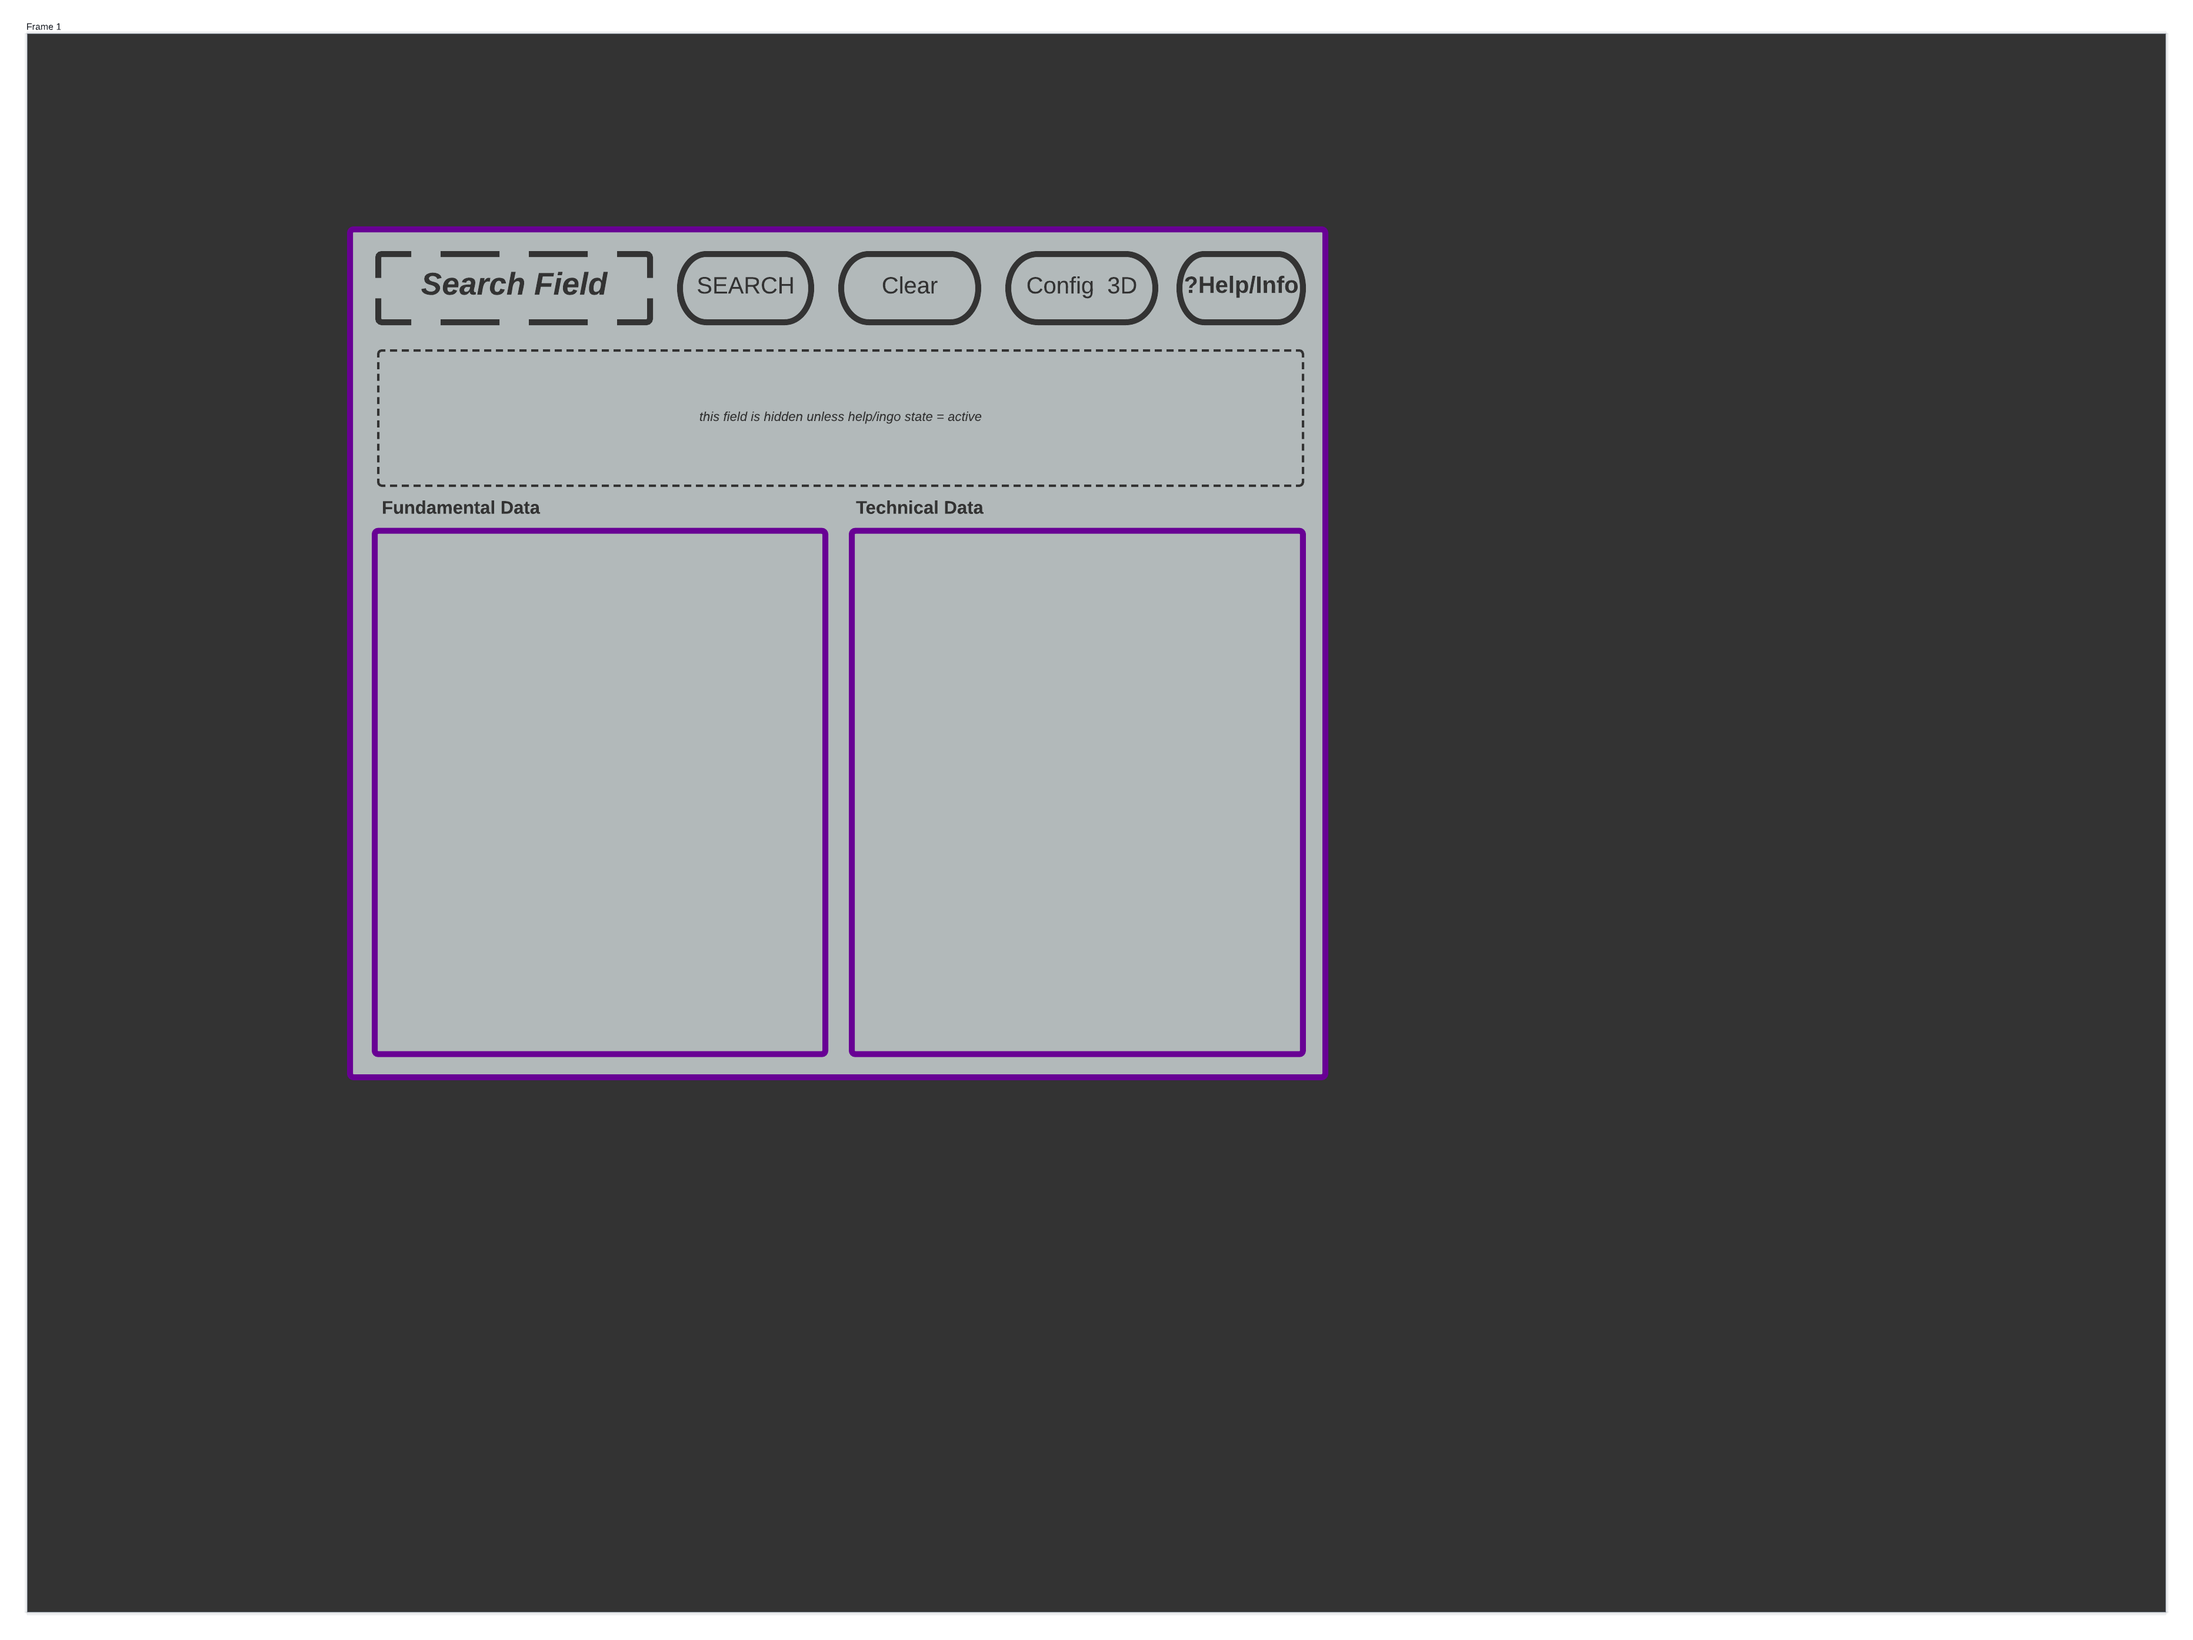
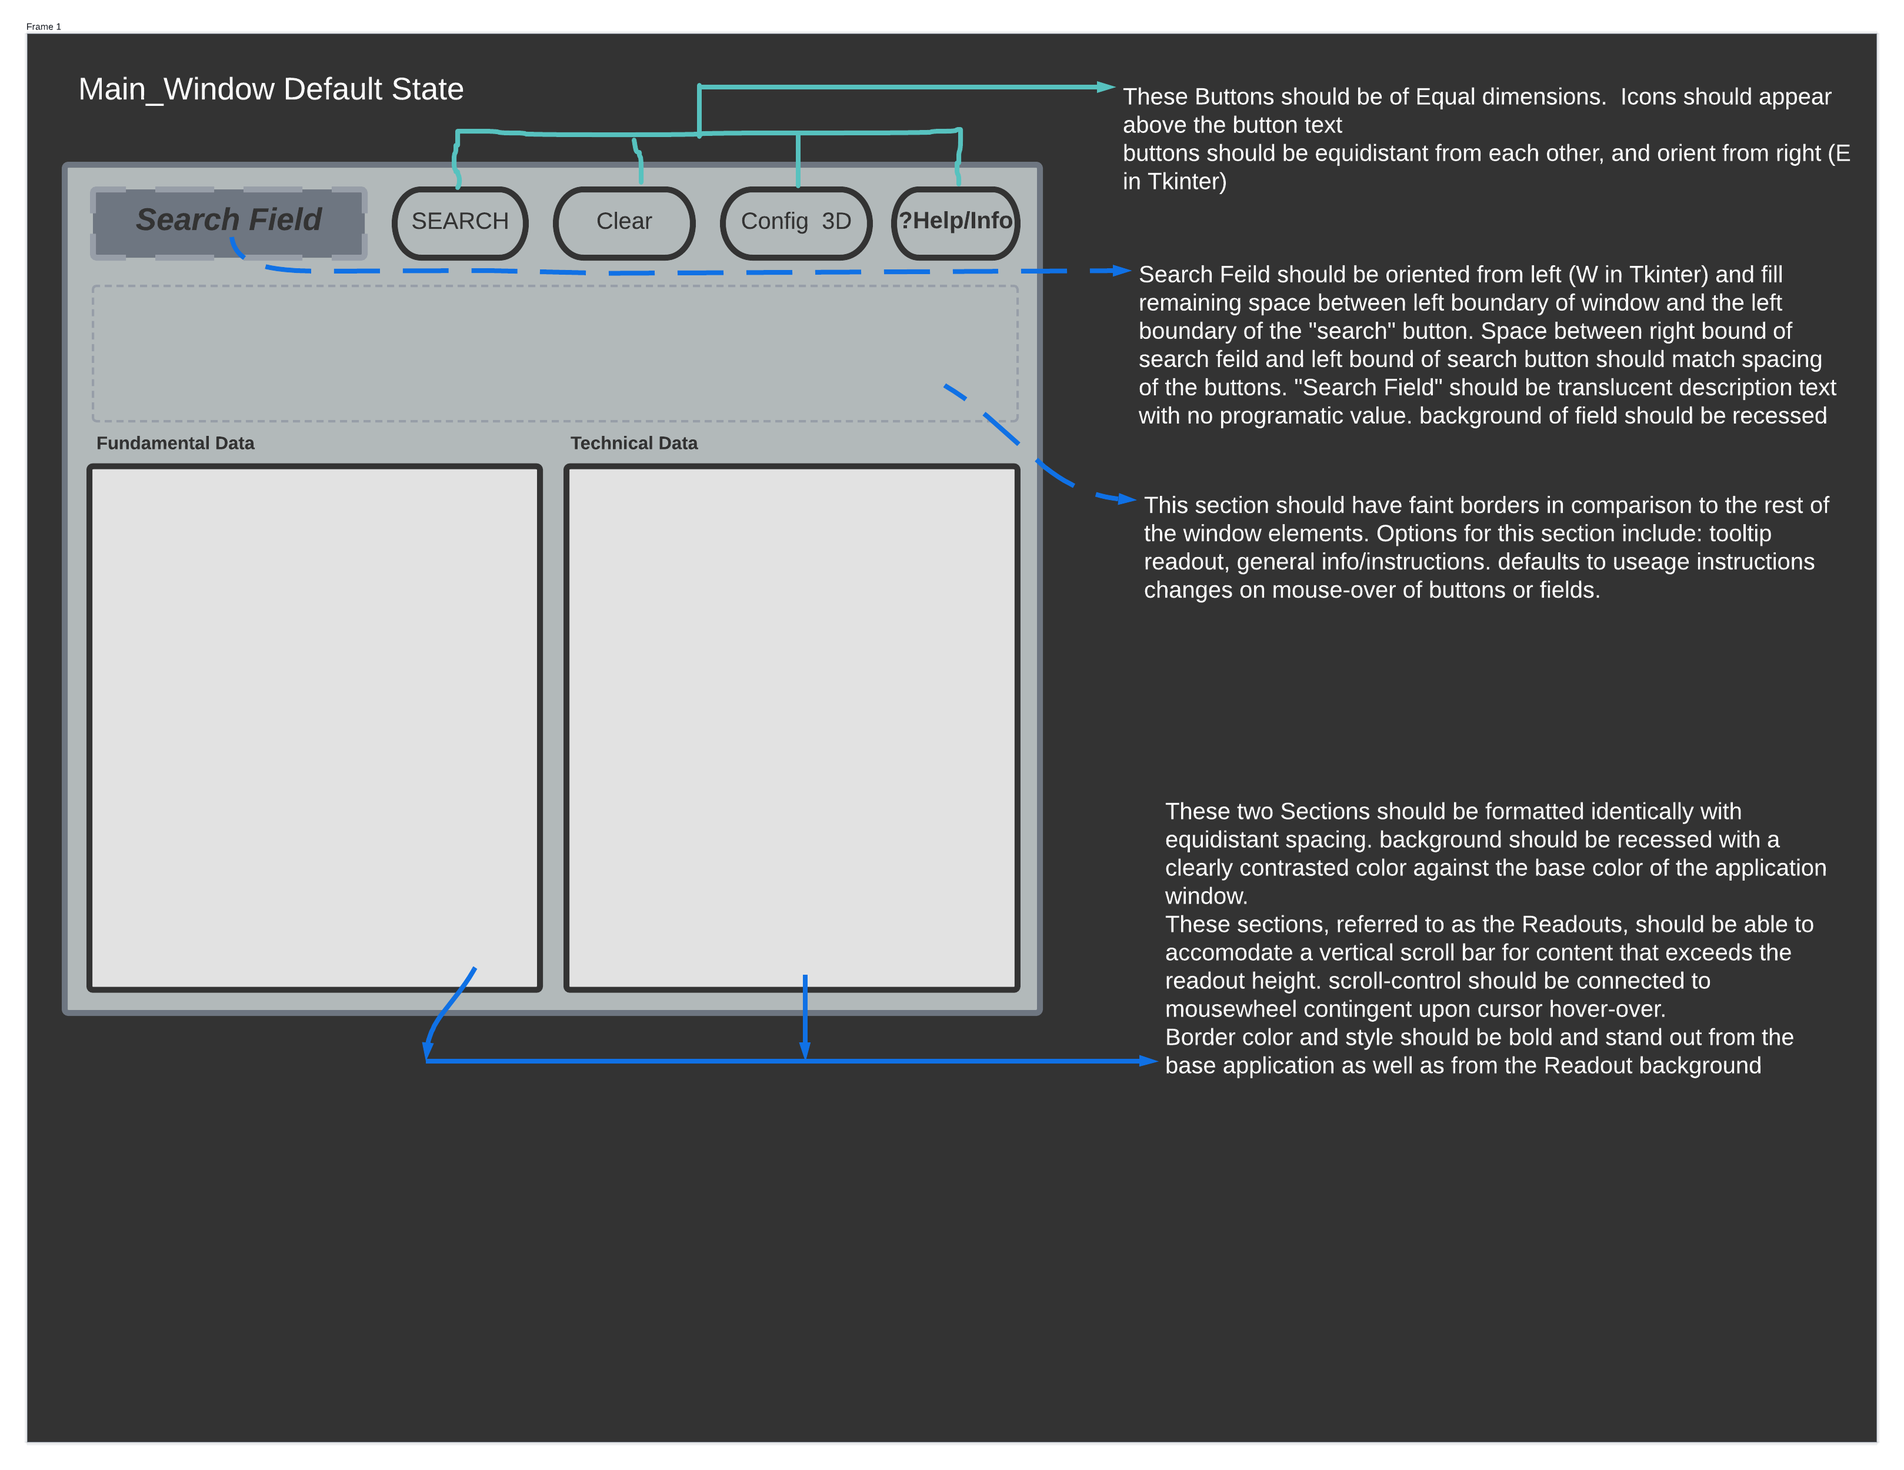
updated wireframe

diff --git a/design_docs/feature_docs/main_window/main_win.md b/design_docs/feature_docs/main_window/main_win.md
@@ -33,7 +33,7 @@ Main interface should be sized in such a way that "full-screen" is optional and 
 *Search-Bar and Search Button:*
 These two elements should be adjacent to each other on the interface window. The field should be clearly demarcated from the background of the window and centered. The field and the button should both be clearly and explicitly labeled, and the button should also make use of an explicit search Icon.
 
-The functionality of the search button and what can be searched for should be outlined and addressed as it's own design/feature document. See `search_info/search.md` for list of what data should be retrieved and where it should be displayed upon activation of the search function.
+The functionality of the search button and what can be searched for should be outlined and addressed as it's own design/feature document. See `search_info/search.md` for list of what data should be retrieved and where it should be displayed upon activation of the search function. NOTE: onClick set "clear" button state to "active"
 
 *Config/Start button for 3D model:*
 This button should open a dialog window as a seperate entity from the main window, details on the design of this window and what elements are required for it should be addressed in a design document of its own. See `3d_model_config/3d_conf.md` for functionality and design parameters.
@@ -56,3 +56,4 @@ As the functionality of the Help/Info button will be expanded in the future as M
 *Clear Results Button:*
 This button should be positioned relative to the Search Button. The sole purpose of this button is to clear all results from the Fundamental and Technical Readouts and change its own state to: "unavailable" becoming "available only when the search button is clicked. NOTE: Independent Design document for this feature is not required!!! onClick clear data set self.state "inactive".
 
+![Main Window Default State](design_docs/feature_docs/main_window/main_win_wiref.png)
